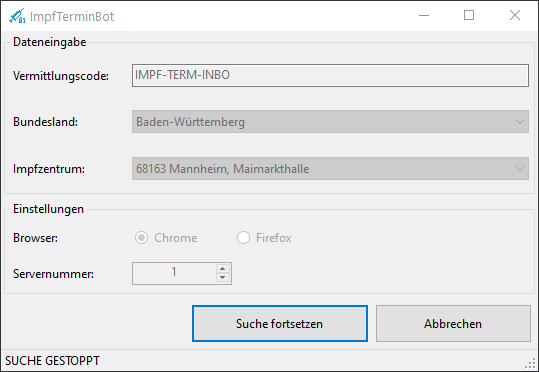
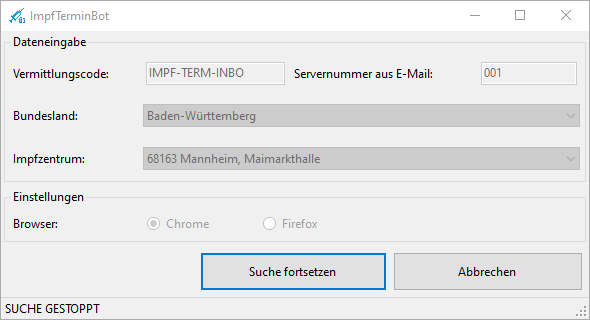
Dokumentation angepasst

diff --git a/README.md b/README.md
@@ -1,6 +1,6 @@
 # ImpfTerminBot
 
-Der ImpfTerminBot erleichtert die teils langwierige Terminsuche für eine Corona-Schutzimpung über das Portal [https://www.impfterminservice.de](https://www.impfterminservice.de). Der ImpfTerminBot steuert hierbei den Browser vollautomatisch, so dass der Benutzer nicht am PC warten muss um den nächsten Schritt auf der Seite ausführen zu können. Sobald ein Termin gefunden wurde meldet sich der Bot mit einem akustischen Signal. Hier beendet der ImpfTerminBot seine Arbeit und der Benutzer übernimmt die Dateneingabe. 
+Der ImpfTerminBot erleichtert die teils langwierige Terminsuche für eine Corona-Schutzimpfung über das Portal [https://www.impfterminservice.de](https://www.impfterminservice.de). Der Bot steuert hierbei den Browser vollautomatisch, so dass der Benutzer nicht am PC warten muss um den nächsten Schritt auf der Seite ausführen zu können. Sobald ein Impftermin gefunden wurde meldet sich der Bot mit einem akustischen Signal. Hier beendet der Bot seine Arbeit und der Benutzer übernimmt die Dateneingabe. 
 
 ## Download 
 [ImpfTerminBot.msi](https://github.com/kyi87/ImpfTerminBot/releases/latest/download/ImpfTerminBot.msi)
@@ -16,13 +16,22 @@ Um die Terminsuche zu starten muss die Desktopverknüpfung "ImpfTerminBot" ausge
 
 Anschließend müssen die benötigten Daten eingetragen werden:
 
--  Vermittlungscode
+- Vermittlungscode
+
+- Servernummer aus E-Mail
+
+  - Hier muss die dreistellige Servernummer, die in der Bestätigungsemail, in welcher auch der Vermittlungscode enthalten ist, eingetragen werden.
+
+    **Beispiel:** Hier wäre die Servernummer "001"
+
+![DatenEingabeLeer](doc/ServernummerAusEmail.png)
+
 -  Bundesland
 -  Impfzentrum 
 
 ![DatenEingabe](doc/DatenEingabe.png)
 
-Nach der Dateneingabe muss "Termin suchen" geklickt werden. Der ImpfTerminBot startet dann automatisiert die Terminsuche.
+Nach der Dateneingabe muss "Termin suchen" geklickt werden. Der Bot startet dann automatisiert die Terminsuche.
 
 ### Terminsuche Stoppen /Fortsetzen und Abbrechen
 
@@ -39,13 +48,13 @@ Mit "Suche fortsetzen" kann die Suche dann fortgesetzt werden.
 Beim Klick auf "Abbrechen" wird die aktuelle Suche abgebrochen und der Browser wird geschlossen.
 
 ### Termin gefunden
-Der ImpfTerminBot meldet sich akustisch sobald ein Termin gefunden wurde. Die Daten müssen dann innerhalb von 10 Minuten eingegeben werden, sonst verfällt die Terminreservierung. 
+Der Bot meldet sich akustisch sobald ein Termin gefunden wurde. Die Daten müssen dann innerhalb von 10 Minuten eingegeben werden, sonst verfällt die Terminreservierung. 
 
 ### Mögliche Fehlermeldungen
 
 | Fehlermeldung                                                | Ursache                                                      |
 | ------------------------------------------------------------ | ------------------------------------------------------------ |
-| Ungültiger Vermittlungscode                                  | Der Vermittlungscode muss gültig sein und zum Bundesland und zum Impfzentrum passen. |
+| Ungültiger Vermittlungscode                                  | Der Vermittlungscode muss gültig sein und zum Bundesland und zum Impfzentrum passen. Außerdem muss auch die Servernummer, der Nummer aus der Bestätigungsemail entsprechen. Siehe Beispiel oben. |
 | Anspruch abgelaufen. Vermittlungscode ist nicht mehr gültig. | Der Vermittlungscode wurde bereits benutzt und ist somit nicht mehr einsetzbar. |
 
 ## Einstellungen
@@ -54,24 +63,12 @@ Der ImpfTerminBot meldet sich akustisch sobald ein Termin gefunden wurde. Die Da
 
 Es stehen Chrome und Firefox als Browser zur Wahl. Der jeweilige Browser muss installiert sein.
 
-### Servernummer
-
-Die Servernummer gibt die Nummer am Anfang der Url an, die verwendet wird. Möglicherweise kann beim Wechsel der Servernummer schneller ein Termin gefunden werden, da die Server unterschiedlich stark ausgelastet sind.
-
-![ServerNummer](doc/ServerNummer.png)
-
-Falls ein Server nicht arbeitet kommt eine Meldung und der Benutzer muss eine andere Servernummer wählen.
-
 ## Voraussetzungen
 
 - **Betriebssystem:** Nur unter Windows (10) lauffähig
 - **Browser:** Google Chrome muss installiert sein (momentan wird nur Google Chrome unterstützt)
 - **Laufzeitumgebung:** [.NetCore 3.1 Desktop Runtime x64](https://dotnet.microsoft.com/download/dotnet/thank-you/runtime-desktop-3.1.14-windows-x64-installer)
-- **Vermittlungscode:** Es muss ein gültiger Vermittlungscode vorhanden sein
-
-## TODO
-- [x] data.json für andere Bundesländer / Impfzentren erweitern
-- [ ] Unterstützung für weitere Browser
+- **Vermittlungscode:** Es muss ein gültiger Vermittlungscode und die passende Servernummer vorhanden sein
 
 ## Unterstützung
 <a href="https://www.buymeacoffee.com/kyi87" target="_blank"><img src="https://cdn.buymeacoffee.com/buttons/default-orange.png" alt="Buy Me A Coffee" height="41" width="174"></a>
